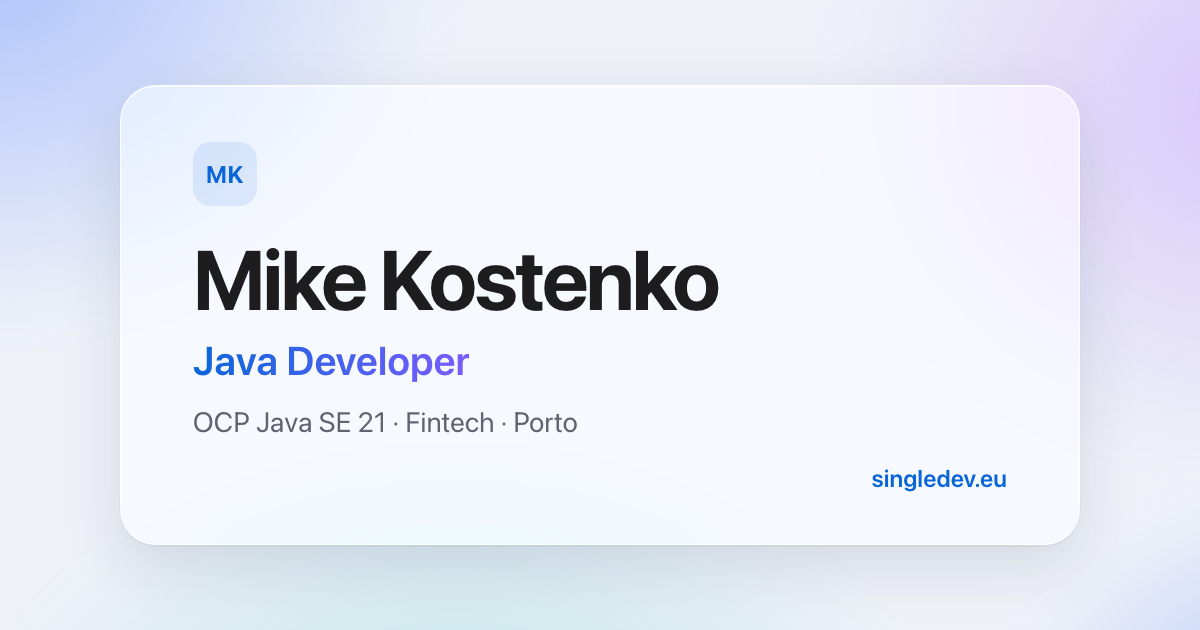
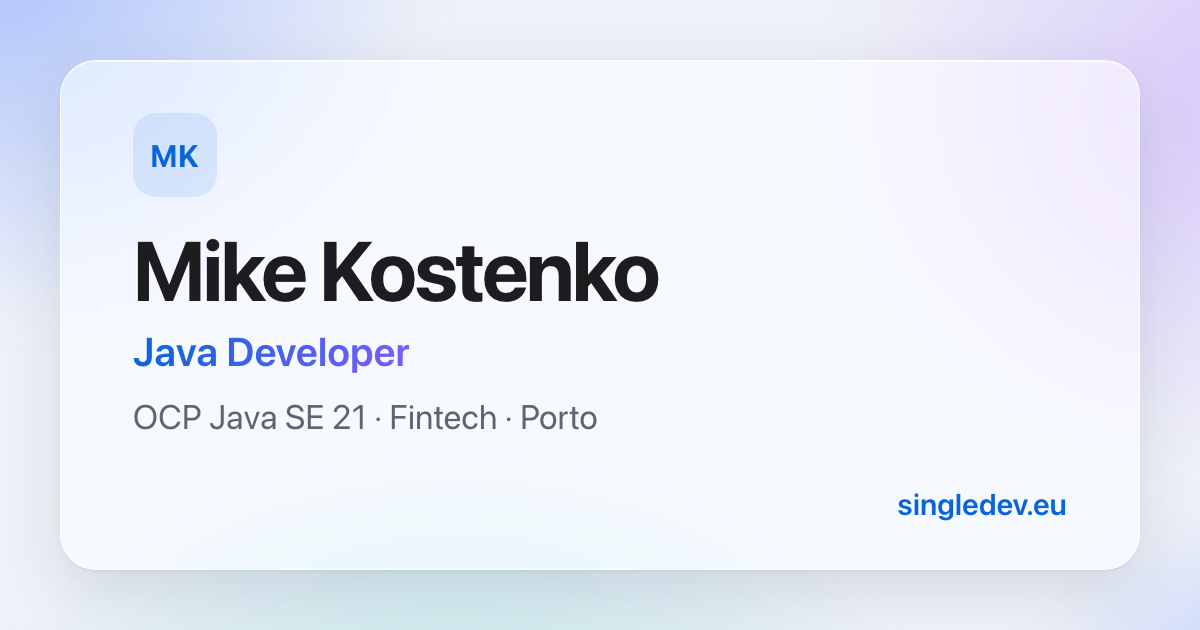
Enlarge social preview text, badge and card
Subtitle 34px, URL 30px, MK badge 1.3x; card widened to 1080px.

diff --git a/og/og.html b/og/og.html
@@ -30,7 +30,7 @@
   }
   .card {
     position: relative; z-index: 1;
-    width: 960px; height: 460px; padding: 56px 72px 52px;
+    width: 1080px; height: 510px; padding: 52px 72px 48px;
     border-radius: 36px;
     background: var(--glass);
     -webkit-backdrop-filter: blur(22px) saturate(170%); backdrop-filter: blur(22px) saturate(170%);
@@ -40,9 +40,9 @@
   }
   .card > * { flex-shrink: 0; }
   .mono {
-    width: 64px; height: 64px; border-radius: 18px;
+    width: 84px; height: 84px; border-radius: 23px;
     display: grid; place-items: center;
-    font-weight: 700; font-size: 24px; letter-spacing: 0.02em;
+    font-weight: 700; font-size: 31px; letter-spacing: 0.02em;
     color: var(--accent); background: var(--accent-soft);
     margin-bottom: 30px;
   }
@@ -52,8 +52,8 @@
     background: linear-gradient(90deg, var(--accent), #7b5cff);
     -webkit-background-clip: text; background-clip: text; color: transparent;
   }
-  .facts { font-size: 28px; color: var(--muted); margin: 0; }
-  .url { margin-top: auto; font-size: 24px; font-weight: 600; color: var(--accent); align-self: flex-end; }
+  .facts { font-size: 34px; color: var(--muted); margin: 0; }
+  .url { margin-top: auto; font-size: 30px; font-weight: 600; color: var(--accent); align-self: flex-end; }
 </style>
 </head>
 <body>
